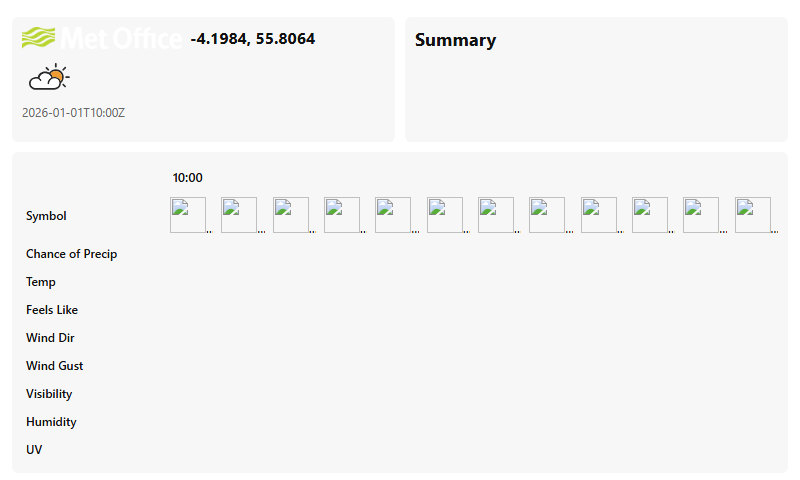
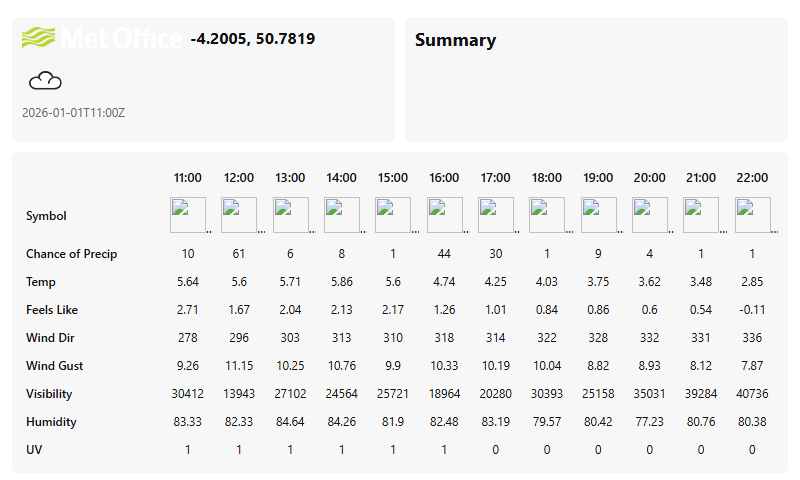
feat: fill in bottom panel

diff --git a/src/plugins/burnsyweather/Services/GlobalSpotLocationHoursAdaptor.py b/src/plugins/burnsyweather/Services/GlobalSpotLocationHoursAdaptor.py
@@ -1,0 +1,26 @@
+from datetime import datetime
+
+class GlobalSpotLocationHoursAdaptor:
+    def get_spot_hourly_forecast(self, weather_data):     
+        
+        # global_spot_location_hours ={
+        #     "hour_1_time": (datetime.fromisoformat(weather_data.features[0].properties.timeSeries[0].time)).strftime('%H:%M'),
+        #     "hour_1_precip": weather_data.features[0].properties.timeSeries[0].probOfPrecipitation,
+        # }
+
+        timed_series = weather_data.features[0].properties.timeSeries
+
+        global_spot_location_hours = {}
+        
+        for i in range(12):
+            global_spot_location_hours[f"hour_{i+1}_time"] = (datetime.fromisoformat(timed_series[i].time)).strftime('%H:%M')
+            global_spot_location_hours[f"hour_{i+1}_precip"] = timed_series[i].probOfPrecipitation
+            global_spot_location_hours[f"hour_{i+1}_temp"] = timed_series[i].screenTemperature
+            global_spot_location_hours[f"hour_{i+1}_feels"] = timed_series[i].feelsLikeTemperature
+            global_spot_location_hours[f"hour_{i+1}_wind_dir"] = timed_series[i].windDirectionFrom10m
+            global_spot_location_hours[f"hour_{i+1}_wind_gust"] = timed_series[i].windGustSpeed10m
+            global_spot_location_hours[f"hour_{i+1}_visibility"] = timed_series[i].visibility
+            global_spot_location_hours[f"hour_{i+1}_humidity"] = timed_series[i].screenRelativeHumidity
+            global_spot_location_hours[f"hour_{i+1}_uv"] = timed_series[i].uvIndex
+            
+        return global_spot_location_hours

diff --git a/src/plugins/burnsyweather/burnsyweather.py b/src/plugins/burnsyweather/burnsyweather.py
@@ -1,6 +1,7 @@
 from plugins.base_plugin.base_plugin import BasePlugin
 from utils.app_utils import resolve_path
-from plugins.burnsyweather.WeatherGetter import WeatherGetter
+from plugins.burnsyweather.Services.WeatherGetter import WeatherGetter
+from plugins.burnsyweather.Services.GlobalSpotLocationHoursAdaptor import GlobalSpotLocationHoursAdaptor
 
 # from PIL import Image, ImageDraw, ImageFont
 from utils.image_utils import resize_image
@@ -44,9 +45,9 @@ class BurnsyWeather(BasePlugin):
 
         # Adapt Weather Data
 
-        hours ={
-            "hour_1_time": (datetime.fromisoformat(weather_data.features[0].properties.timeSeries[0].time)).strftime('%H:%M'),
-        }
+        adaptor = GlobalSpotLocationHoursAdaptor()
+        global_spot_location_hours = adaptor.get_spot_hourly_forecast(weather_data)
+
 
 
         icon_set = 'old'
@@ -64,6 +65,6 @@ class BurnsyWeather(BasePlugin):
             "plugin_settings": settings
         }
 
-        image_template_params = basic_params | hours
+        image_template_params = basic_params | global_spot_location_hours
         return image_template_params 
    
